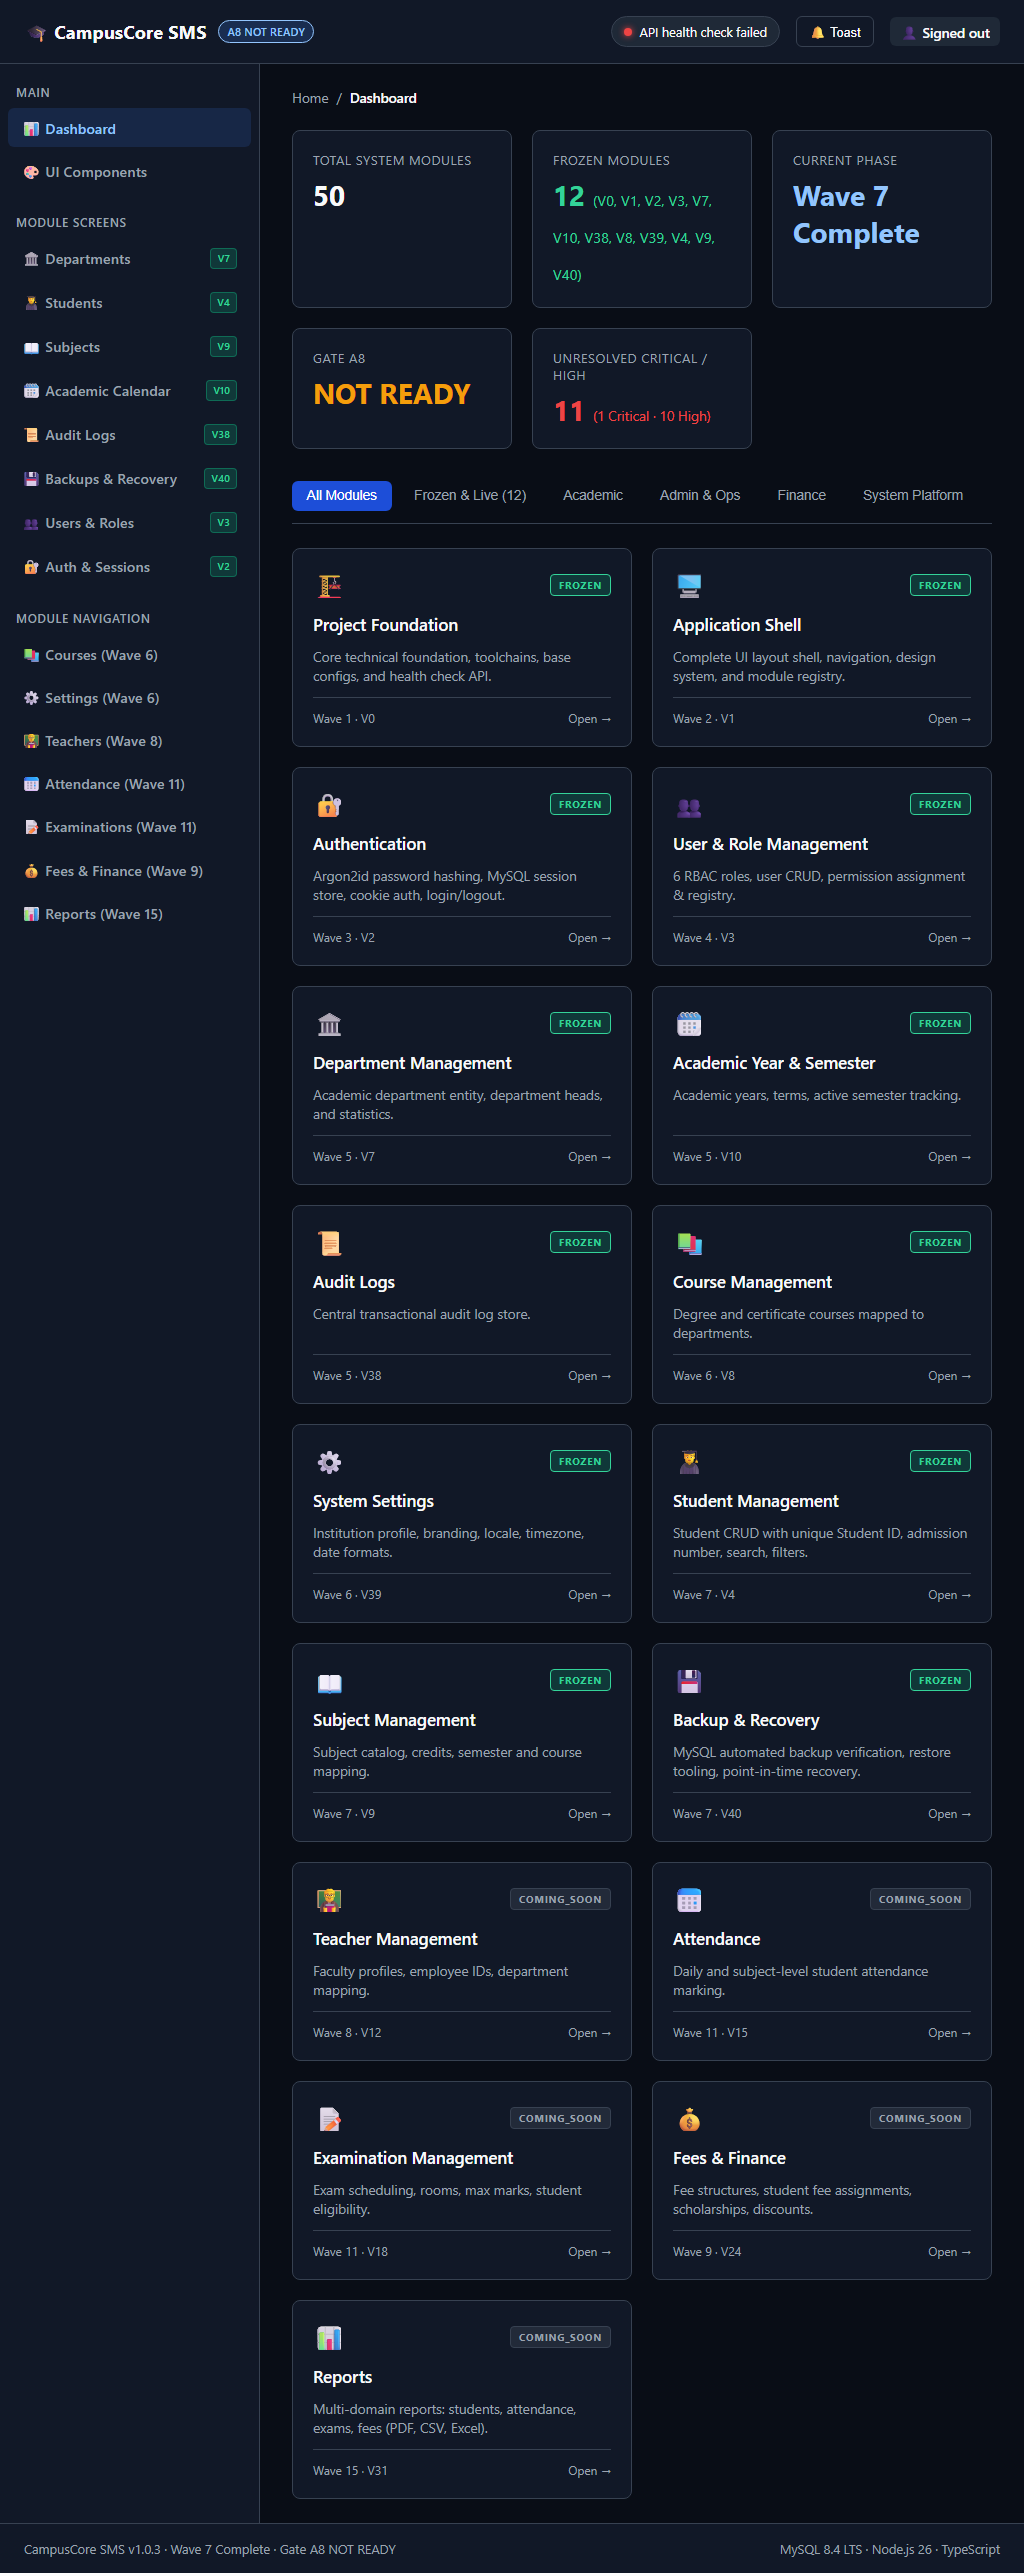
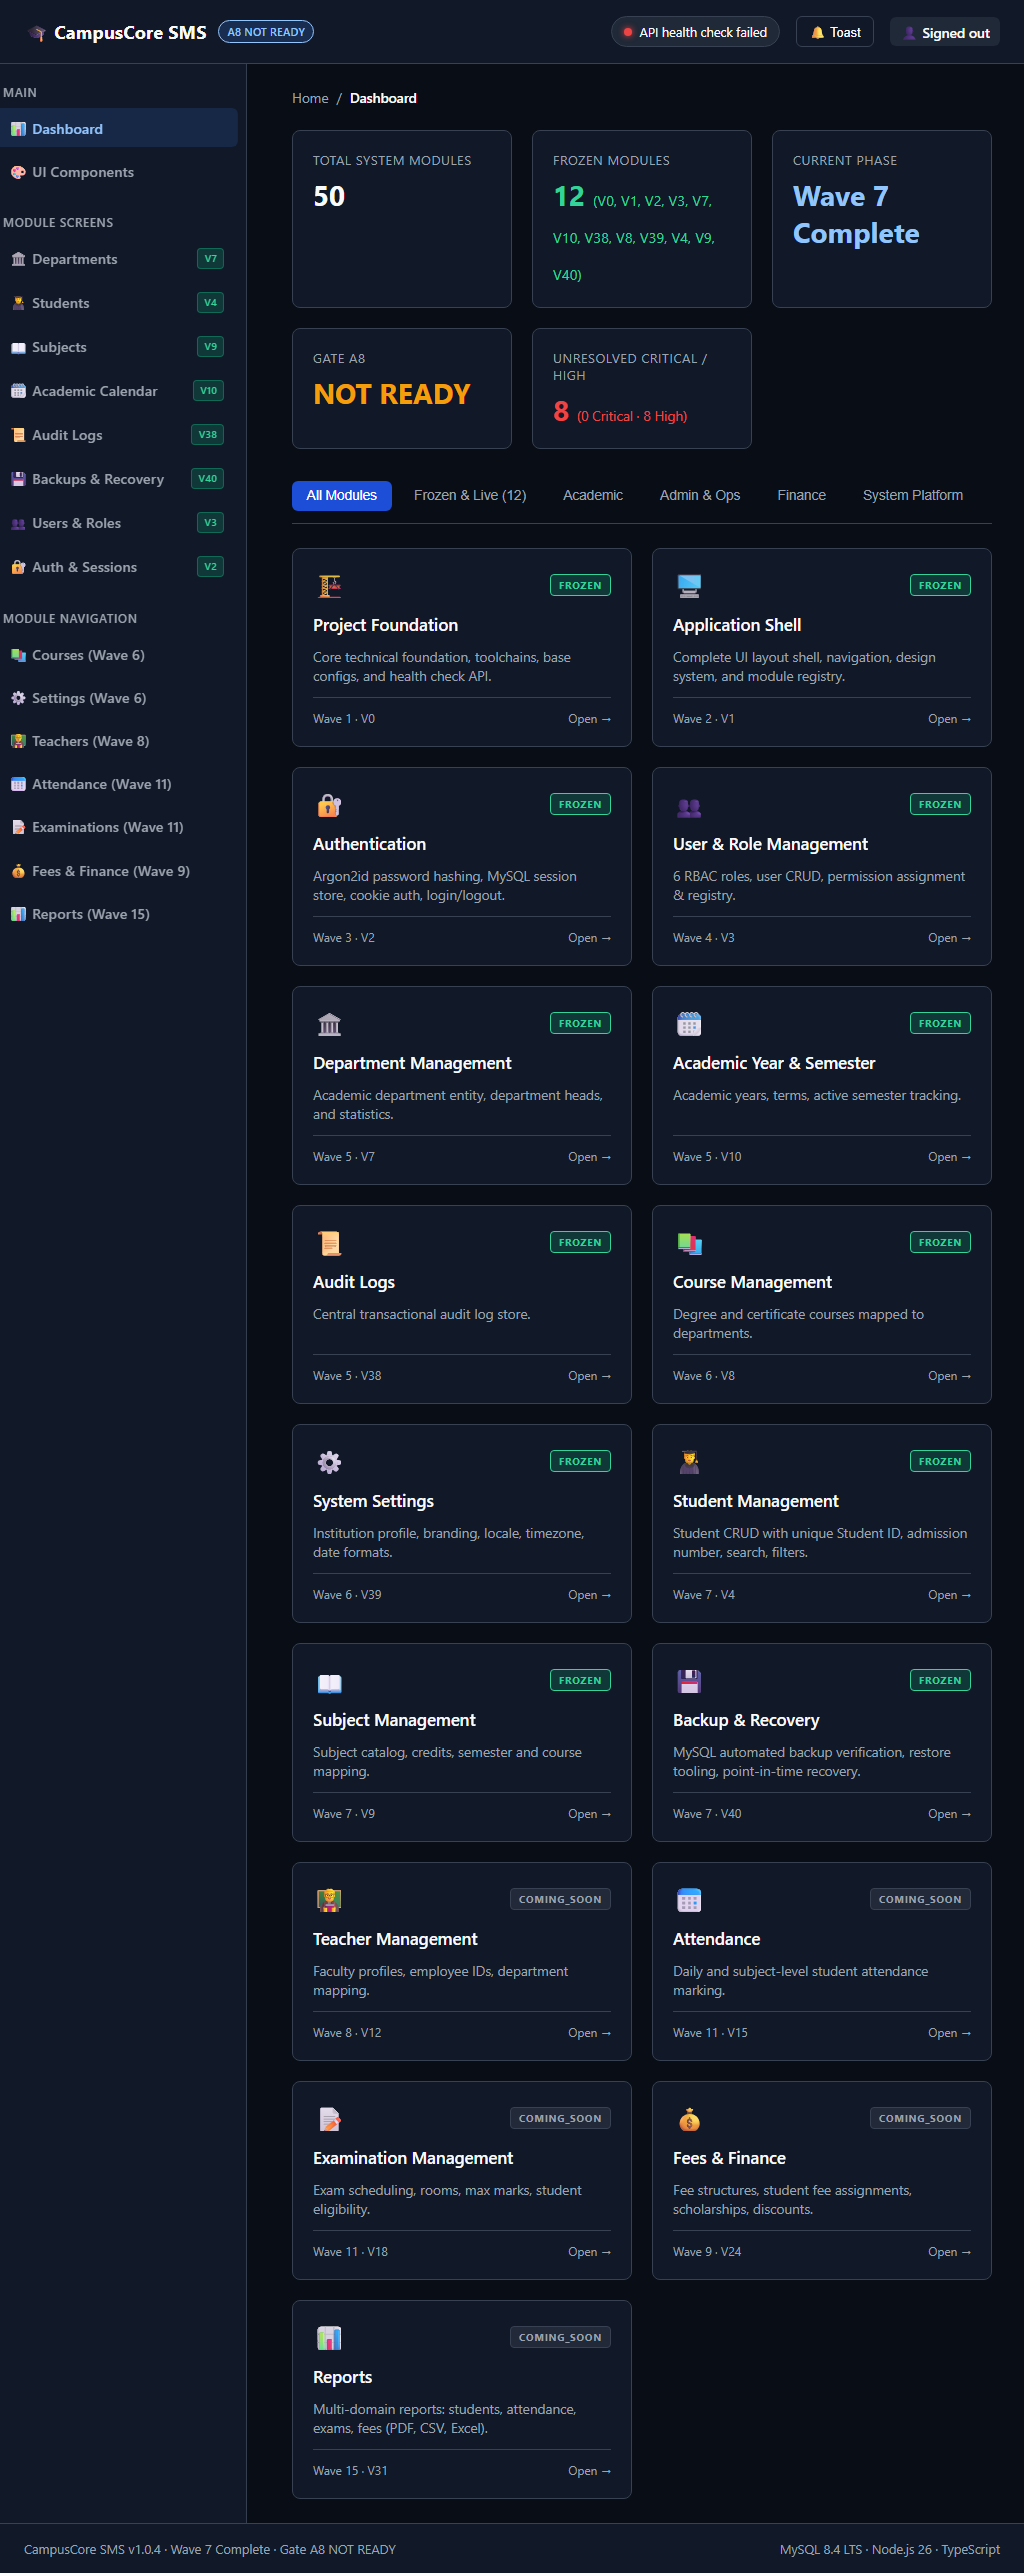
fix(shell): refresh backlog after db recovery [CC-F-502]

Changed region(s): [[0.0, 0.0311, 0.1875, 0.3731], [0.1875, 0.0933, 0.25, 0.2487], [0.2188, 0.0311, 0.25, 0.0622]]

diff --git a/frontend/tests/e2e/dashboard-status.spec.ts b/frontend/tests/e2e/dashboard-status.spec.ts
@@ -25,8 +25,8 @@ test("dashboard reflects the frozen catalog and the closed Wave 8 gate", async (
   expect(frozenCardIds).toEqual(frozenCatalogIds);
   await expect(page.getByTestId("frozen-modules-metric")).toContainText("12");
   await expect(page.getByTestId("audit-gate-metric")).toContainText("NOT READY");
-  await expect(page.getByTestId("unresolved-findings-metric")).toContainText("11");
-  await expect(page.getByTestId("unresolved-findings-metric")).toContainText("1 Critical · 10 High");
+  await expect(page.getByTestId("unresolved-findings-metric")).toContainText("8");
+  await expect(page.getByTestId("unresolved-findings-metric")).toContainText("0 Critical · 8 High");
   await expect(page.locator("#viewDashboard")).toContainText("Wave 7 Complete");
   await expect(page.locator("#viewDashboard")).not.toContainText("41 / 41");
   await expect(page.locator("#viewDashboard")).not.toContainText("100% Pass");

diff --git a/frontend/public/index.html b/frontend/public/index.html
@@ -697,7 +697,7 @@
           </div>
           <div class="metric-card" data-testid="unresolved-findings-metric">
             <div class="title">Unresolved Critical / High</div>
-            <div class="value" style="color: var(--danger);">11 <span style="font-size: 0.85rem; font-weight: normal;">(1 Critical · 10 High)</span></div>
+            <div class="value" style="color: var(--danger);">8 <span style="font-size: 0.85rem; font-weight: normal;">(0 Critical · 8 High)</span></div>
           </div>
         </div>
 
@@ -1084,7 +1084,7 @@
 
   <!-- Footer -->
   <footer class="app-footer">
-    <div>CampusCore SMS v1.0.3 · Wave 7 Complete · Gate A8 NOT READY</div>
+    <div>CampusCore SMS v1.0.4 · Wave 7 Complete · Gate A8 NOT READY</div>
     <div>MySQL 8.4 LTS · Node.js 26 · TypeScript</div>
   </footer>
 

diff --git a/docs/modules/01-shell/CHANGELOG.md b/docs/modules/01-shell/CHANGELOG.md
@@ -1,5 +1,13 @@
 # V1 Application Shell: Changelog
 
+## [1.0.4] - 2026-11-23
+### Fixed
+- Reconciled the dashboard unresolved Critical/High count after CC-F-201, CC-F-204, and CC-F-205 passed the MySQL outage/recovery validation (8 total: 0 Critical, 8 High).
+- Advanced the shell patch footer to v1.0.4.
+
+### Verified
+- The Playwright dashboard regression assertion checks the current 8-finding count and severity breakdown.
+
 ## [1.0.3] - 2026-11-23
 ### Fixed
 - Reconciled the dashboard unresolved Critical/High count after CC-F-302 passed live browser/API/MySQL validation (11 total: 1 Critical, 10 High).
